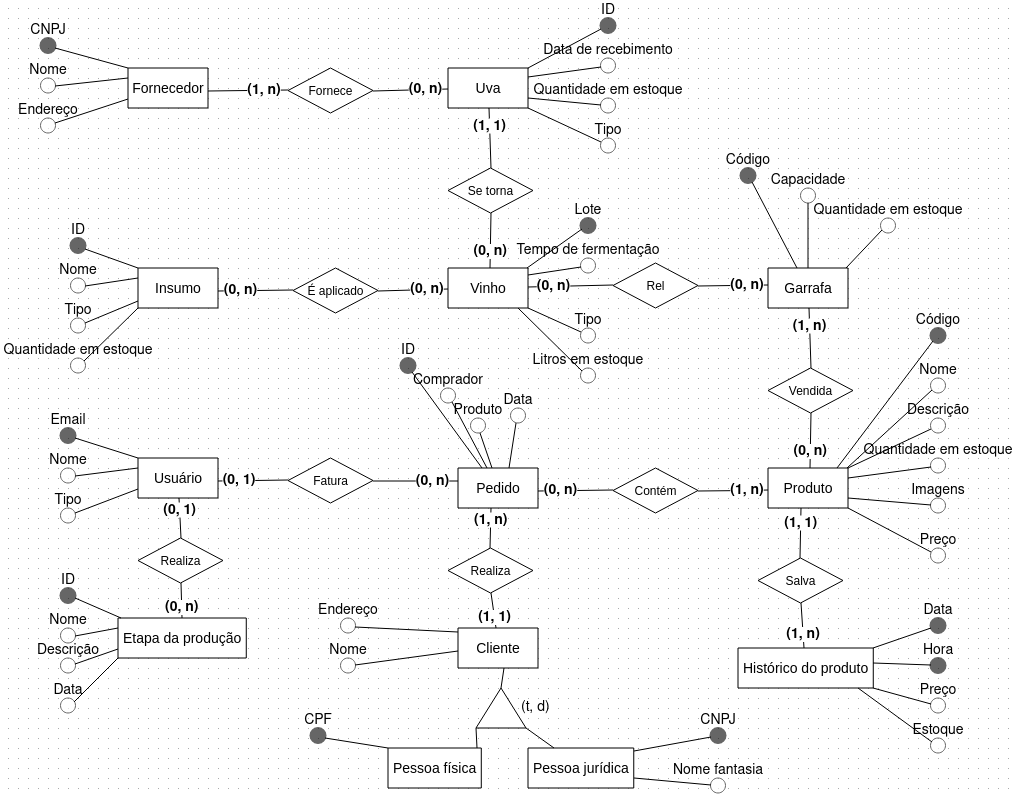
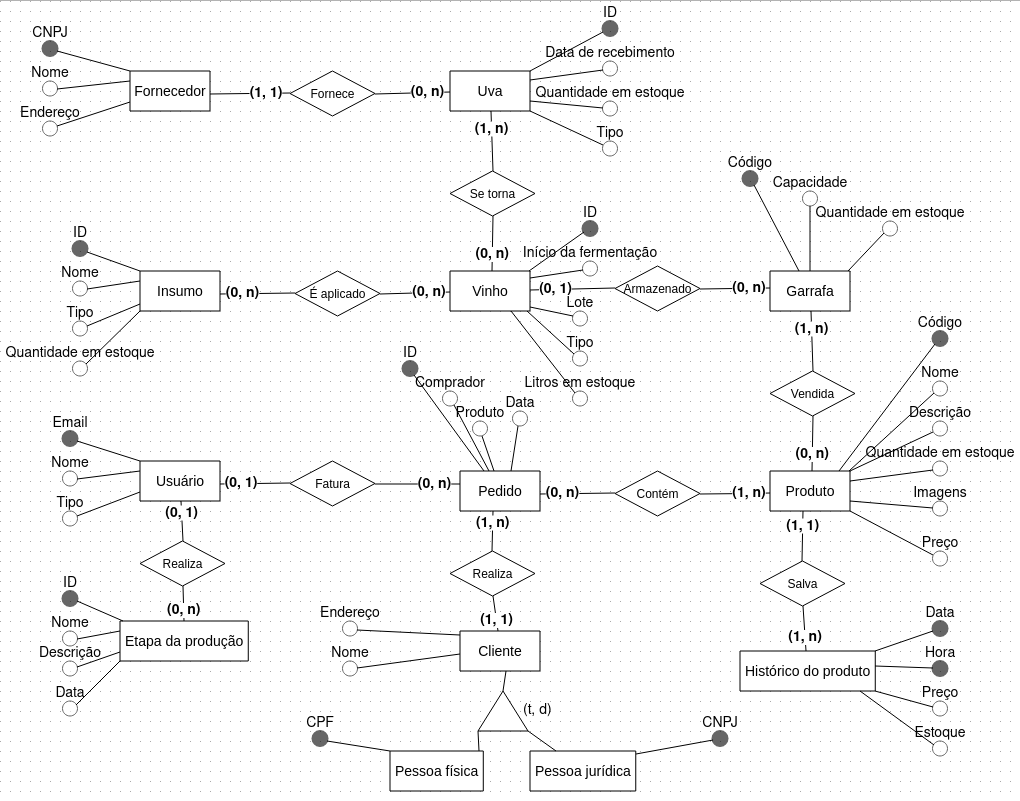
Add link do modelo lógico, fix relacionamento com nome incorreto no modelo conceitual

diff --git a/documentation/database/README.md b/documentation/database/README.md
@@ -1,1 +1,3 @@
 Link público do diagrama no BrModelo web: https://app.brmodeloweb.com/#!/publicview/665fa3754ff126493fd2ef83
+
+Link do modelo lógico no QuickDBD: https://app.quickdatabasediagrams.com/#/d/Q4EffI
